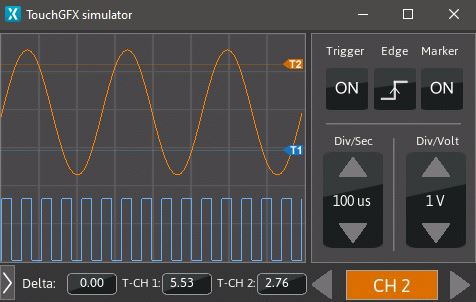
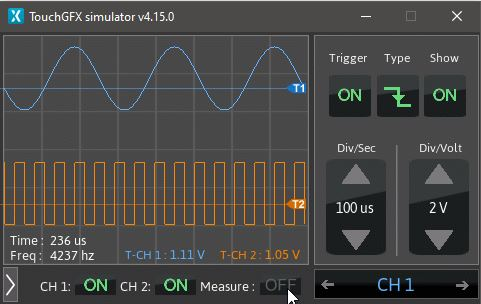
adjust alignment menu

diff --git a/Project/Oscilloscope/Graphic/gui/src/main_screen/MainView.cpp b/Project/Oscilloscope/Graphic/gui/src/main_screen/MainView.cpp
@@ -289,41 +289,41 @@ void MainView::setupScreen()
 	 */
 	meas_delta.setTypedText(TypedText(T_CURSOR_US));
 	meas_delta.setColor(Color::getColorFrom24BitRGB(246, 241, 237));
-	meas_delta.setXY(22, 200);
+	meas_delta.setXY(10, 200);
 	add(meas_delta);
 
 	Unicode::snprintf(cursor_buff, 15, "%d", 0);
 	time_wildcard.setTypedText(TypedText(T_CURSOR_VALUE));
 	time_wildcard.setWildcard(cursor_buff);
-	time_wildcard.setPosition(40, 200,100,20);
+	time_wildcard.setPosition(50, 200,100,20);
 	time_wildcard.setColor(Color::getColorFrom24BitRGB(255, 255, 255));
 	add(time_wildcard);
 
 	meas_freq.setTypedText(TypedText(T_CURSOR_HZ));
 	meas_freq.setColor(Color::getColorFrom24BitRGB(246, 241, 237));
-	meas_freq.setXY(22, 215);
+	meas_freq.setXY(10, 215);
 	add(meas_freq);
 
 	Unicode::snprintf(freq_buff, 15, "%d", 0);
 	freq_wildcard.setTypedText(TypedText(T_CURSOR_VALUE));
 	freq_wildcard.setWildcard(freq_buff);
-	freq_wildcard.setPosition(40, 215, 100, 20);
+	freq_wildcard.setPosition(50, 215, 100, 20);
 	freq_wildcard.setColor(Color::getColorFrom24BitRGB(255, 255, 255));
 	add(freq_wildcard);
 
 
-	Unicode::snprintf(trig_buff[CHANNEL_1], 5, "%d", 0);
+	Unicode::snprintf(trig_buff[CHANNEL_1], 5, "%d V", 0);
 	trig_value_wildcard[CHANNEL_1].setTypedText(TypedText(T_TRIGG1_VALUE));
 	trig_value_wildcard[CHANNEL_1].setWildcard(trig_buff[CHANNEL_1]);
-	trig_value_wildcard[CHANNEL_1].setPosition(160, 215, 50, 20);
+	trig_value_wildcard[CHANNEL_1].setPosition(170, 214, 100, 20);
 	trig_value_wildcard[CHANNEL_1].setColor(Color::getColorFrom24BitRGB(102, 178, 255));
 	add(trig_value_wildcard[CHANNEL_1]);
 	trig_value_wildcard[CHANNEL_1].invalidate();
 
-	Unicode::snprintf(trig_buff[CHANNEL_2], 5, "%d", 0);
+	Unicode::snprintf(trig_buff[CHANNEL_2], 5, "%d V", 0);
 	trig_value_wildcard[CHANNEL_2].setTypedText(TypedText(T_TRIGG2_VALUE));
 	trig_value_wildcard[CHANNEL_2].setWildcard(trig_buff[CHANNEL_2]);
-	trig_value_wildcard[CHANNEL_2].setPosition(255, 215, 50, 20);
+	trig_value_wildcard[CHANNEL_2].setPosition(265, 214, 100, 20);
 	trig_value_wildcard[CHANNEL_2].setColor(Color::getColorFrom24BitRGB(255, 133, 7));
 	add(trig_value_wildcard[CHANNEL_2]);
 	trig_value_wildcard[CHANNEL_2].invalidate();
@@ -624,7 +624,7 @@ void MainView::handleTickEvent()
 		if (presenter->p_GetVoltageScale(i) > 5)
 			float_value = float_value / 1000;
 
-		Unicode::snprintfFloat(trig_buff[i], 5, "%.2f", float_value);
+		Unicode::snprintfFloat(trig_buff[i], 7, "%.2f V", float_value);
 		trig_value_wildcard[i].invalidate();
 	}
 

diff --git a/Project/Oscilloscope/Graphic/gui/include/gui/main_screen/MainView.hpp b/Project/Oscilloscope/Graphic/gui/include/gui/main_screen/MainView.hpp
@@ -171,7 +171,7 @@ private:
 	Unicode::UnicodeChar freq_buff[15];
 
 	TextAreaWithOneWildcard trig_value_wildcard[NUMBER_OF_CHANNEL];
-	Unicode::UnicodeChar trig_buff[NUMBER_OF_CHANNEL][5];
+	Unicode::UnicodeChar trig_buff[NUMBER_OF_CHANNEL][10];
 
 	enum SlideDirection
 	{
